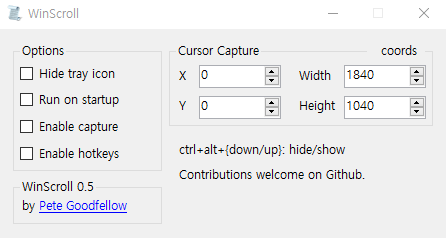
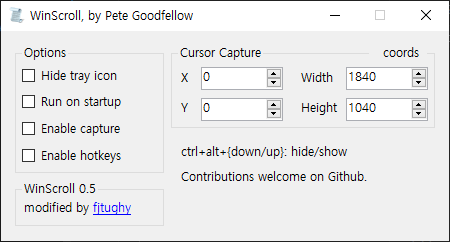
changed the aboutURL

diff --git a/WinScroll/WinScroll.Designer.cs b/WinScroll/WinScroll.Designer.cs
@@ -151,14 +151,14 @@ partial class WinScroll
         // aboutLink
         // 
         this.aboutLink.AutoSize = true;
-        this.aboutLink.LinkArea = new System.Windows.Forms.LinkArea(3, 18);
+        this.aboutLink.LinkArea = new System.Windows.Forms.LinkArea(12, 18);
         this.aboutLink.LinkColor = System.Drawing.Color.Blue;
         this.aboutLink.Location = new System.Drawing.Point(6, 16);
         this.aboutLink.Name = "aboutLink";
         this.aboutLink.Size = new System.Drawing.Size(102, 17);
         this.aboutLink.TabIndex = 1;
         this.aboutLink.TabStop = true;
-        this.aboutLink.Text = "by Pete Goodfellow";
+        this.aboutLink.Text = "modified by fjtughy";
         this.tooltip.SetToolTip(this.aboutLink, "Visit the Github project page!");
         this.aboutLink.UseCompatibleTextRendering = true;
         this.aboutLink.VisitedLinkColor = System.Drawing.Color.Blue;
@@ -533,9 +533,9 @@ partial class WinScroll
         this.FormBorderStyle = System.Windows.Forms.FormBorderStyle.FixedSingle;
         this.Icon = ((System.Drawing.Icon)(resources.GetObject("$this.Icon")));
         this.MaximizeBox = false;
-        this.Name = "WinScroll";
+        this.Name = "WinScroll, by Pete Goodfellow";
         this.ShowInTaskbar = false;
-        this.Text = "WinScroll";
+        this.Text = "WinScroll, by Pete Goodfellow";
         this.FormClosed += new System.Windows.Forms.FormClosedEventHandler(this.OnClose);
         this.options.ResumeLayout(false);
         this.options.PerformLayout();

diff --git a/WinScroll/WinScroll.cs b/WinScroll/WinScroll.cs
@@ -216,7 +216,7 @@ public partial class WinScroll : Form
 
     private void aboutLinkClicked(object? sender, EventArgs e)
     {
-        System.Diagnostics.Process.Start(aboutURL);
+        System.Diagnostics.Process.Start(new ProcessStartInfo { FileName = aboutURL, UseShellExecute = true });
     }
 
 
